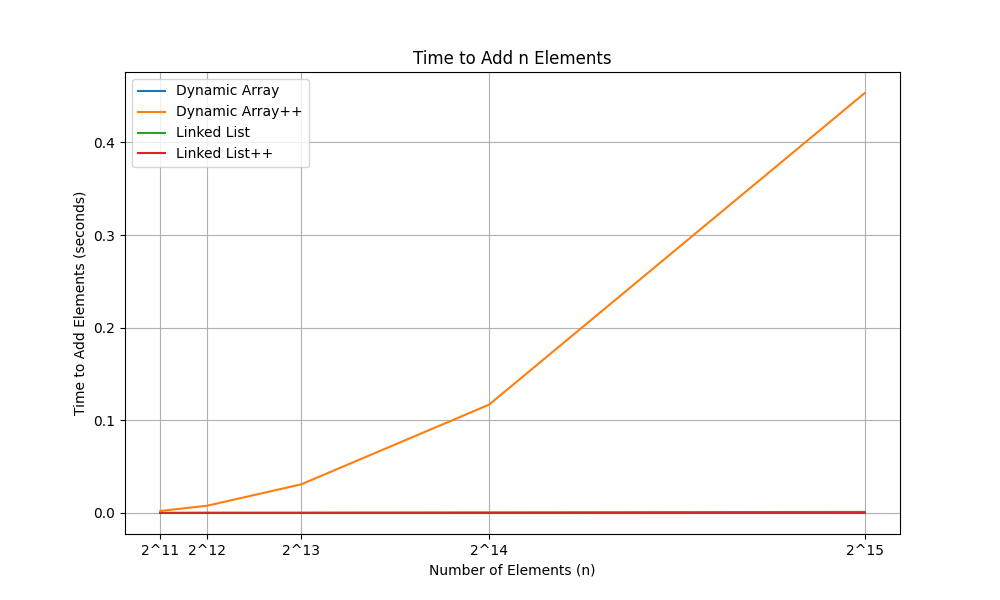
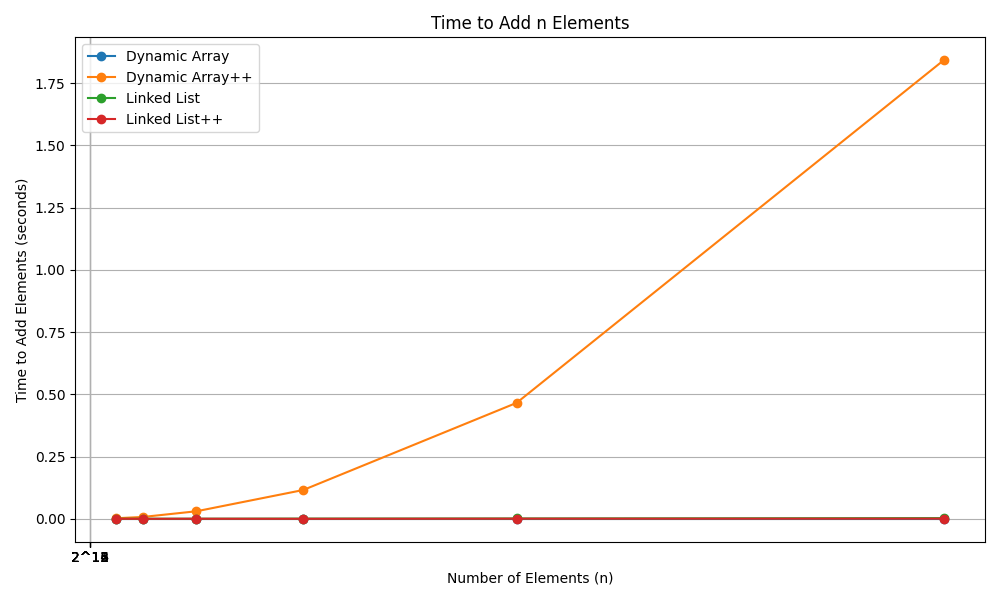
1_1 done & 1 11-21 try done

diff --git a/hw1/plot_script1.py b/hw1/plot_script1.py
@@ -3,6 +3,8 @@ import subprocess
 import pandas as pd
 import matplotlib.pyplot as plt
 import math
+from sklearn.linear_model  import LinearRegression
+import numpy as np
 
 # 執行 C++ 程式並生成 CSV
 def run_cpp_program(executable_path, n_value, output_file, mode='first'):
@@ -58,7 +60,7 @@ def main():
             f.write("n,time\n")  # CSV header
 
     # 迭代 k 值從 11 到 25，並計算對應的 n = 2^k
-    for k in range(11, 20):
+    for k in range(11, 26):
         n_value = int(math.pow(2, k))
         print(f"Running for n = 2^{k} = {n_value}")
         

diff --git a/hw1/plot_script1_1.py b/hw1/plot_script1_1.py
@@ -59,7 +59,7 @@ def main():
             f.write("n,time\n")  # CSV header
 
     # 迭代 k 值從 11 到 25，並計算對應的 n = 2^k
-    for k in range(11, 20):
+    for k in range(11, 26):
         n_value = int(math.pow(2, k))
         print(f"Running for n = 2^{k} = {n_value}")
         

diff --git a/hw1/plot_script2.py b/hw1/plot_script2.py
@@ -57,7 +57,7 @@ def main():
             f.write("n,time\n")  # CSV header
 
     # 迭代 k 值從 11 到 25，並計算對應的 n = 2^k
-    for k in range(11, 16):
+    for k in range(11, 21):
         n_value = int(math.pow(2, k))
         print(f"Running for n = 2^{k} = {n_value}")
         
